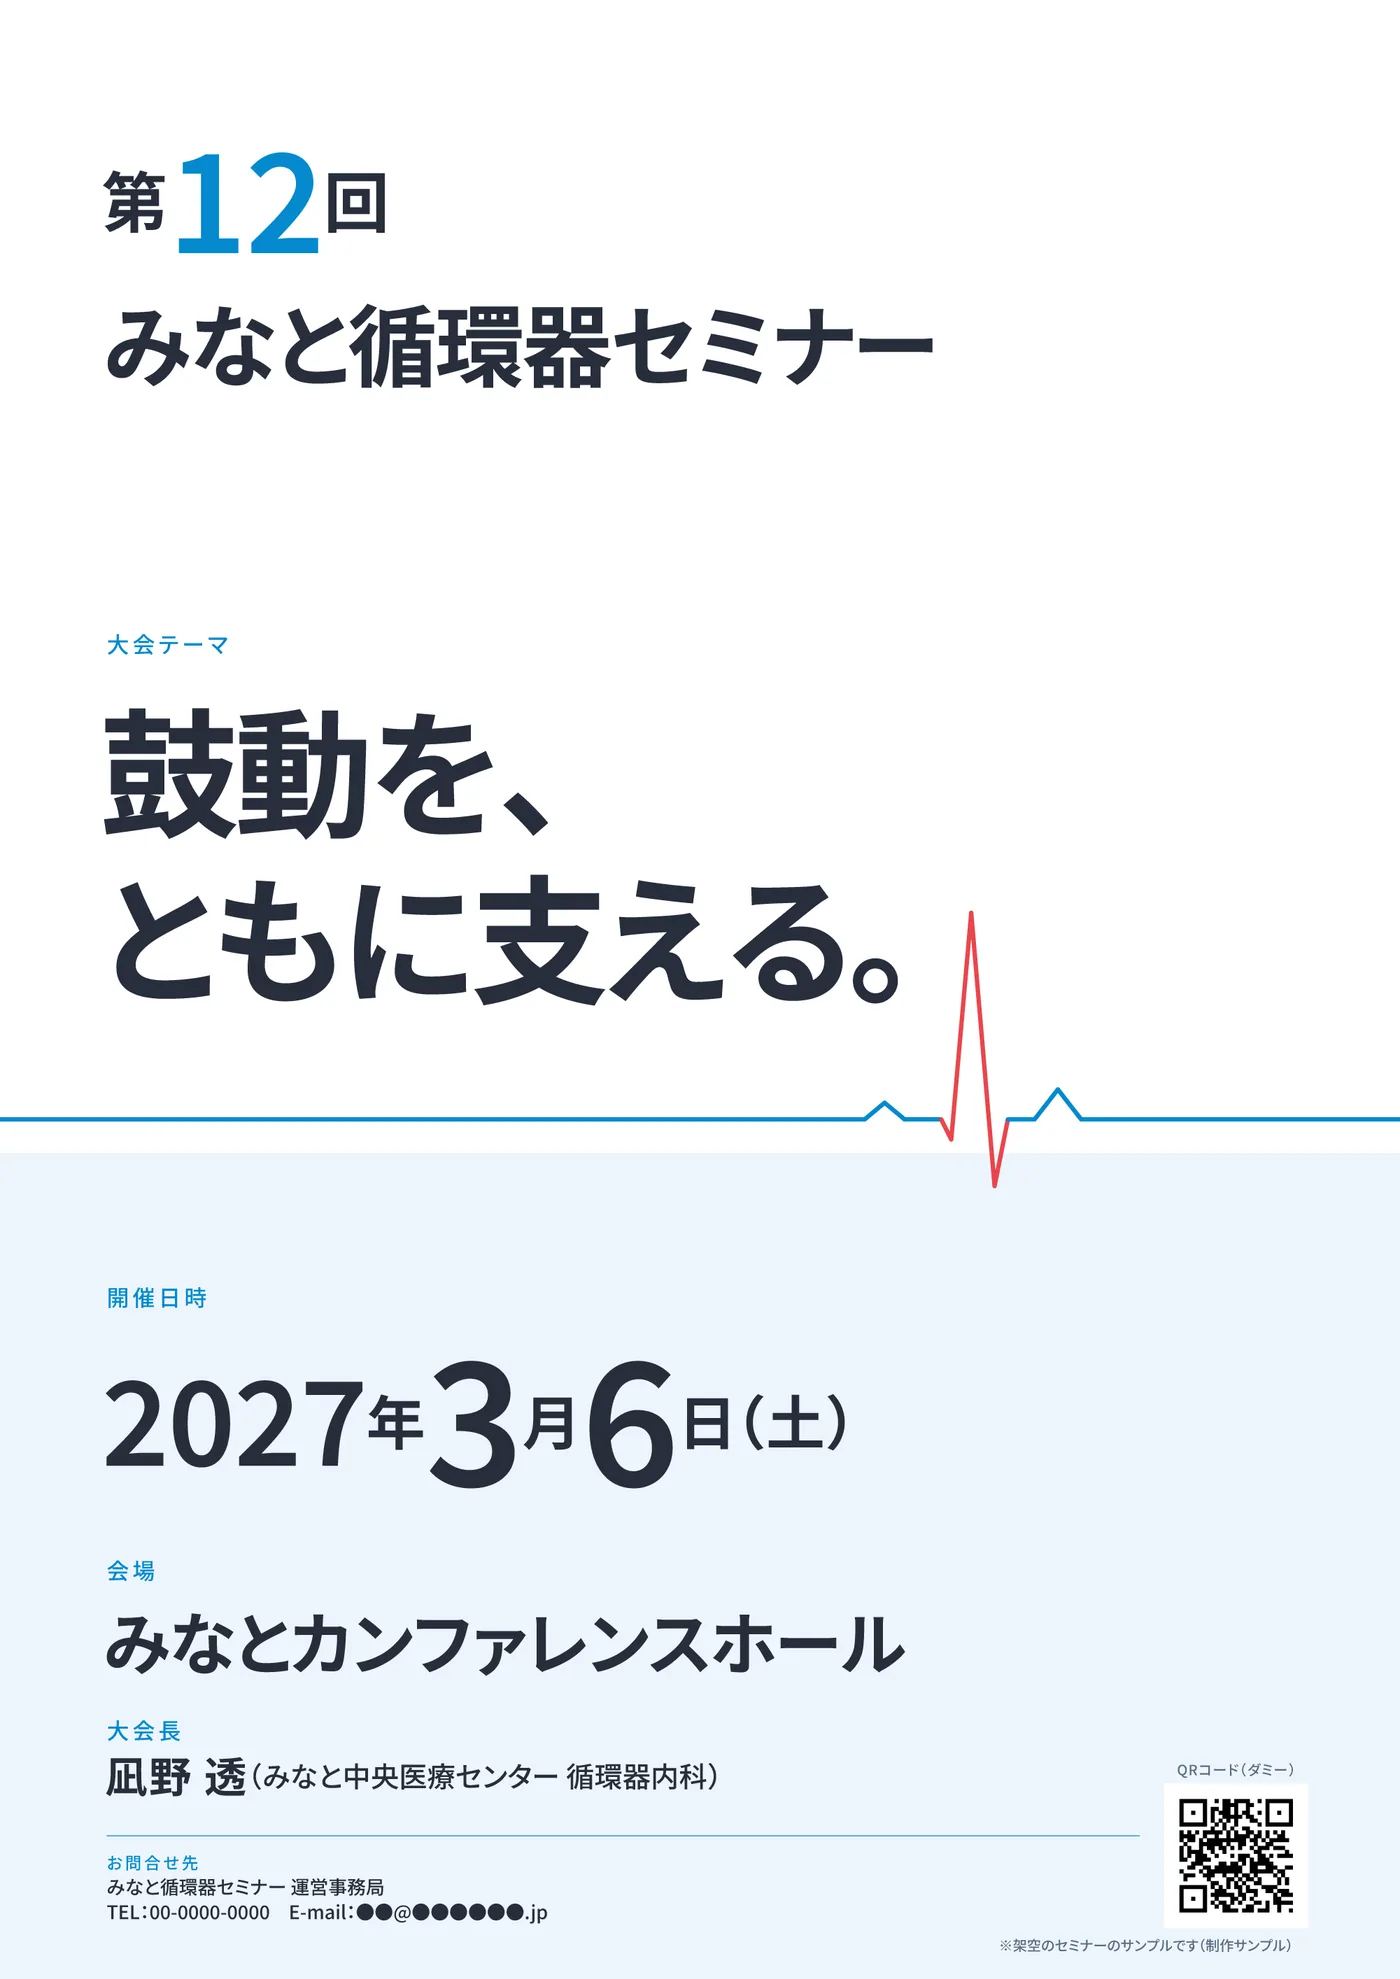
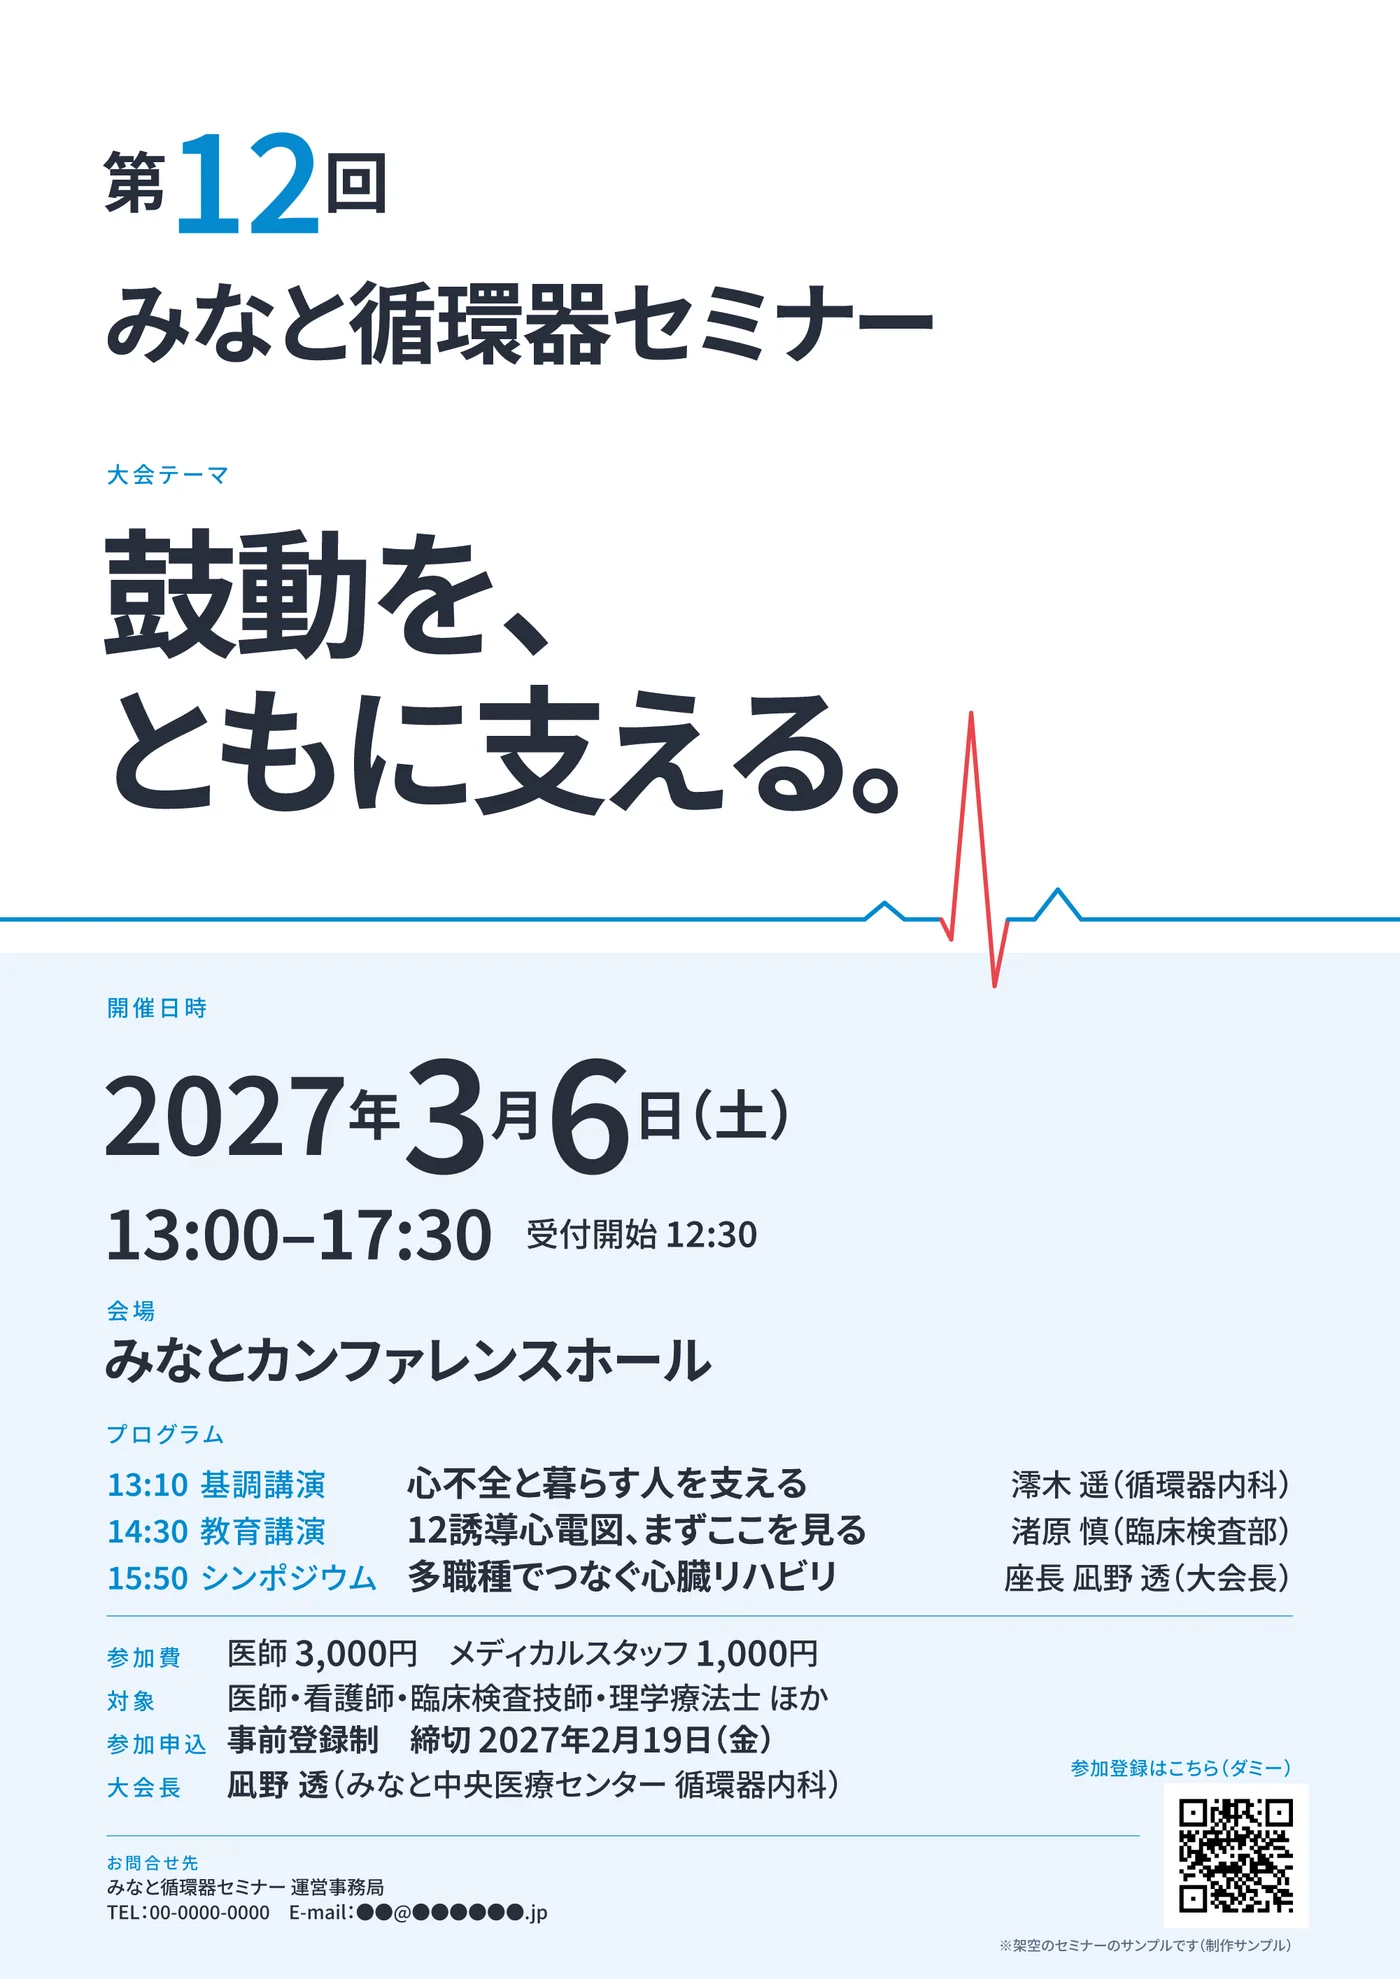
作品集のポスターを手直し：時刻・プログラム・参加費・対象・申込・QRの行き先を足した

diff --git a/works/poster/index.html b/works/poster/index.html
@@ -76,7 +76,7 @@
         <ul class="request">
           <li><span>課題</span>学会やセミナーのポスターは載せる情報が多く、遠くからだと「何の会が・いつ・どこで」が読み取りにくい</li>
           <li><span>誰に</span>院内や会場の掲示の前を通る、医師・メディカルスタッフ</li>
-          <li><span>伝えたいこと</span>立ち止まらなくても、会の名前と日付がわかること</li>
+          <li><span>伝えたいこと</span>立ち止まらなくても、会の名前と日付がわかること。近づけば、時刻・プログラム・参加費・申込方法までその場でわかること</li>
           <li><span>コンセプト</span>「鼓動に寄り添う、一本の線」。紙面を横切る心電図の線1本で、循環器の会であることとテーマを見せる</li>
         </ul>
       </div>
@@ -103,8 +103,8 @@
             <p>白と澄んだ青で、明るく清潔な印象に。赤は「警告」にも見える色なので、<strong>心電図の1拍（QRS）だけ</strong>に使いました。文字は真っ黒ではなく、青みのある墨にしています。</p>
           </li>
           <li>
-            <h3>上から「会の名前 → テーマ → 日時・会場」</h3>
-            <p>上の白い面に会の名前とテーマ、下の淡い青の面に日時・会場・大会長・お問合せ先をまとめました。<strong>読む順番と、面の分かれ目をそろえて</strong>います。</p>
+            <h3>遠くから・近づいて・手元で、の3段に</h3>
+            <p>上の白い面に会の名前とテーマ（遠くから見る所）、下の淡い青の面に日時・会場・プログラム・参加費・申込（近づいて読む所）、いちばん下にQRコードとお問合せ先（手元で読む所）をまとめました。<strong>読む順番と、面の分かれ目、文字の大きさの段をそろえて</strong>います。</p>
           </li>
         </ol>
       </div>
@@ -120,8 +120,8 @@
         </div>
         <div class="promo">
           <figure class="promo__flyer">
-            <img src="images/poster.webp" width="900" height="1272" alt="A2ポスターの全体：上に「第12回 みなと循環器セミナー」と大会テーマ「鼓動を、ともに支える。」、中央を横切る心電図の線、下の淡い青の面に開催日時 2027年3月6日（土）・会場・大会長・お問合せ先とダミーのQRコード" loading="lazy">
-            <figcaption><strong>告知ポスター（A2縦 420×594mm）</strong>日付は「3」と「6」をいちばん大きくし、「年・月・日」は小さくしました。</figcaption>
+            <img src="images/poster.webp" width="900" height="1272" alt="A2ポスターの全体：上に「第12回 みなと循環器セミナー」と大会テーマ「鼓動を、ともに支える。」、テーマの下を横切る心電図の線、下の淡い青の面に開催日時 2027年3月6日（土）13:00〜17:30・会場・プログラム3本・参加費・対象・参加申込・大会長・お問合せ先と、参加登録用のダミーのQRコード" loading="lazy">
+            <figcaption><strong>告知ポスター（A2縦 420×594mm）</strong>日付は「3」と「6」をいちばん大きくし、「年・月・日」は小さくしました。時刻は日付のすぐ下に、下の段では日付の次に大きく入れています。</figcaption>
           </figure>
           <div class="promo__sns">
             <ul class="promo__feed promo__feed--wide">
@@ -129,9 +129,9 @@
             </ul>
             <p class="promo__caption"><strong>赤は、1拍だけ</strong>線のほとんどは青で、心電図の1拍（QRS）だけを赤にしました。離れて見ても、目に入りやすいようにしています。</p>
             <ul class="promo__feed promo__feed--wide">
-              <li><img src="images/poster-info.webp" width="900" height="193" alt="ポスター下部の拡大：大会長、お問合せ先、ダミーのQRコード" loading="lazy"></li>
+              <li><img src="images/poster-info.webp" width="900" height="364" alt="ポスター下部の拡大：プログラム3本（時刻・種別・演題・講師）、参加費・対象・参加申込（事前登録制・締切 2027年2月19日〈金〉）・大会長、お問合せ先、「参加登録はこちら（ダミー）」と書いたQRコード" loading="lazy"></li>
             </ul>
-            <p class="promo__caption"><strong>細かい情報は、下にまとめる</strong>大会長・お問合せ先・QRコードは下の段に集めました。一番小さい文字も、12ptより小さくしていません。</p>
+            <p class="promo__caption"><strong>参加に要る情報は、下にまとめる</strong>プログラム・参加費・対象・申込方法と締切を下の段に集め、QRコードには行き先（参加登録）を添えました。読む距離に合わせて文字の大きさを段に分け、一番小さい文字も12ptより小さくしていません。</p>
           </div>
         </div>
       </div>
@@ -147,7 +147,7 @@
         <ul class="check-list">
           <li><strong>印刷用データ</strong>CMYK・塗り足し3mm・トンボ付きのPDFで、仕上がりサイズ（420×594mm）と塗り足しの範囲が正しいことを確認しました。入稿用の .ai は文字をアウトライン化しています。</li>
           <li><strong>文字の位置と大きさ</strong>すべての文字が、断裁でずれても切れない範囲（仕上がりの3mm内側）に入っていることを確認しました。</li>
-          <li><strong>架空の名前</strong>会の名前・会場・人名・病院名を検索し、同じ名前が出てこないことを確認しました。</li>
+          <li><strong>架空の名前と日付</strong>会の名前・会場・人名（講師を含む）・病院名を検索し、同じ名前が出てこないことを確認しました。開催日と申込の締切の曜日は、暦で確かめています。</li>
           <li><strong>根拠が要る言葉を使わない</strong>「最先端」「日本一」などは使わず、テーマは短い言い切りだけにしています。</li>
         </ul>
       </div>

diff --git a/gallery/index.html b/gallery/index.html
@@ -869,13 +869,13 @@
           <dt>担当</dt><dd>構成・デザイン・印刷用データ（CMYK・塗り足し3mm・トンボ付きPDF、文字をアウトライン化した .ai）</dd>
           <dt>使ったもの</dt><dd>Illustrator</dd>
         </dl>
-        <p class="work__body">掲示の前を通りすぎる医師・メディカルスタッフにも「何の会が・いつ」が伝わるように、写真を使わず、会の名前・テーマ・日付を大きな文字で組みました。飾りは紙面を横切る心電図の線1本だけにし、赤はその1拍にだけ使っています。</p>
+        <p class="work__body">掲示の前を通りすぎる医師・メディカルスタッフにも「何の会が・いつ」が伝わるように、写真を使わず、会の名前・テーマ・日付を大きな文字で組みました。近づけば時刻・プログラム・参加費・申込方法まで読めるよう、下の段に文字の大きさを分けてまとめています。飾りは紙面を横切る心電図の線1本だけにし、赤はその1拍にだけ使っています。</p>
         <p class="work__note">写真は使っていません。会の名前・会場・人名・QRコードなど、紙面の内容はすべて架空のダミーです。</p>
       </div>
       <div class="work__media">
         <div class="poster">
           <figure class="shot">
-            <a class="shot__link" href="images/poster.webp"><img src="images/poster-700.webp" width="700" height="990" alt="A2ポスターの全体：上に会の名前と大会テーマ「鼓動を、ともに支える。」、中央を横切る心電図の線、下の淡い青の面に開催日時・会場・大会長・ダミーのQRコード" loading="lazy"></a>
+            <a class="shot__link" href="images/poster.webp"><img src="images/poster-700.webp" width="700" height="990" alt="A2ポスターの全体：上に会の名前と大会テーマ「鼓動を、ともに支える。」、中央を横切る心電図の線、下の淡い青の面に開催日時と時刻・会場・プログラム・参加費・対象・参加申込・大会長と、参加登録用のダミーのQRコード" loading="lazy"></a>
             <figcaption>告知ポスター（A2縦 420×594mm・片面）</figcaption>
           </figure>
           <figure class="shot">

diff --git a/index.html b/index.html
@@ -252,13 +252,13 @@
           </li>
           <li class="work">
             <a class="work__link" href="works/poster/">
-              <div class="work__screens"><figure class="work__shot" style="--r: 0.708"><img src="images/card/poster.webp" width="320" height="452" alt="A2の医療セミナーのポスター。大きなテーマの文字と、紙面を横切る心電図の線" loading="lazy"><figcaption>全体（A2）</figcaption></figure><figure class="work__shot" style="--r: 1.749"><img src="images/card/poster-line.webp" width="640" height="366" alt="心電図の線の拡大。青い線の途中の1拍だけが赤い" loading="lazy"><figcaption>拡大</figcaption></figure></div>
+              <div class="work__screens"><figure class="work__shot" style="--r: 0.708"><img src="images/card/poster.webp" width="320" height="452" alt="A2の医療セミナーのポスター。大きなテーマの文字と、紙面を横切る心電図の線。下に日時・プログラム・参加費・申込" loading="lazy"><figcaption>全体（A2）</figcaption></figure><figure class="work__shot" style="--r: 1.749"><img src="images/card/poster-line.webp" width="640" height="366" alt="心電図の線の拡大。青い線の途中の1拍だけが赤い" loading="lazy"><figcaption>拡大</figcaption></figure></div>
               <div class="work__body">
                 <p class="work__tag">ポスター｜医療・学会</p>
                 <h3 class="work__title">医療セミナーのポスター（A2）</h3>
                 <p class="work__text">循環器のセミナーを告知するA2ポスター（架空の会のサンプル）。写真を使わず、文字と心電図の線1本で組みました。Illustratorで印刷用データ（塗り足し・トンボ付きPDF）まで作っています。</p>
                 <ul class="work__points">
-                  <li>会の名前と日付を、いちばん大きく</li>
+                  <li>テーマと日付を、いちばん大きく</li>
                   <li>赤は心電図の1拍だけに使う</li>
                 </ul>
                 <p class="work__more">制作の解説を読む<span aria-hidden="true">→</span></p>
